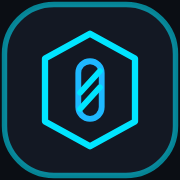
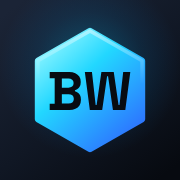
Ícone do app refeito: emblema BW cheio, nítido em qualquer tamanho
O ícone anterior era um desenho de traço fino de 1,2px pensado para 40
pixels. Na tela inicial do celular ele virava um contorno pálido — o
poste de barbeiro parecia um clipe de papel — e o quadrado escuro com
borda ficava dentro do recorte do sistema, dando aquele efeito de moldura
dupla.

O novo emblema é o hexágono da marca CHEIO, com o monograma BW vazado.
As letras são o Space Grotesk Bold (a mesma fonte dos títulos do site),
já convertidas em contorno — não dependem de fonte instalada. O fundo é
sangrado, sem borda própria: quem arredonda é o sistema.

- app/icon.svg — aba do navegador (versão com cantos arredondados)
- app/apple-icon.png — 180px, atalho do iPhone
- public/icon-192.png e icon-512.png — Android / PWA
- public/icon-maskable-512.png — versão com margem de sobra, para o
  Android recortar no formato do aparelho sem cortar o emblema
- design/icone/*.svg — as fontes vetoriais, para gerar os PNGs de novo

components/Logo.tsx passa a usar o mesmo emblema: a marca no topo do
site, na aba do navegador e na tela inicial do celular é uma só.

Claude-Session: https://claude.ai/code/session_01NoNN1Cej5Z9SqMegocJnvG

diff --git a/components/Logo.tsx b/components/Logo.tsx
@@ -1,49 +1,58 @@
 import { shop } from "@/lib/shop";
 
-// Emblema hexagonal com poste de barbeiro — traço elétrico sobre o neutro.
+// Emblema da marca: hexágono cheio com o monograma BW vazado.
+//
+// É o mesmo desenho do ícone do app (app/icon.svg, public/icon-*.png), para
+// a barbearia ter uma marca só na tela inicial do celular, na aba do
+// navegador e no topo do site. As letras são o Space Grotesk Bold — a
+// mesma fonte dos títulos — já convertido em contorno, então não depende
+// de fonte instalada em lugar nenhum.
 export function LogoMark({ className = "h-9 w-9" }: { className?: string }) {
   return (
-    <svg viewBox="0 0 40 40" fill="none" className={className} aria-hidden="true">
+    <svg viewBox="0 0 512 512" fill="none" className={className} aria-hidden="true">
       <defs>
-        <linearGradient id="bw-stroke" x1="20" y1="3" x2="20" y2="37">
-          <stop stopColor="#00E5FF" />
-          <stop offset="1" stopColor="#2979FF" />
+        <linearGradient
+          id="bw-el"
+          x1="120"
+          y1="104"
+          x2="400"
+          y2="416"
+          gradientUnits="userSpaceOnUse"
+        >
+          <stop stopColor="#9DF9FF" />
+          <stop offset=".38" stopColor="#22D7FF" />
+          <stop offset="1" stopColor="#2F62FF" />
+        </linearGradient>
+        {/* Luz de cima: dá volume ao emblema sem pesar no arquivo. */}
+        <linearGradient
+          id="bw-brilho"
+          x1="256"
+          y1="88"
+          x2="256"
+          y2="424"
+          gradientUnits="userSpaceOnUse"
+        >
+          <stop stopColor="#FFFFFF" stopOpacity=".45" />
+          <stop offset=".45" stopColor="#FFFFFF" stopOpacity="0" />
         </linearGradient>
       </defs>
-      <rect x="1" y="1" width="38" height="38" rx="11" fill="#131823" />
-      <rect
-        x="1"
-        y="1"
-        width="38"
-        height="38"
-        rx="11"
-        stroke="url(#bw-stroke)"
-        strokeOpacity="0.55"
-        strokeWidth="1.2"
-      />
-      {/* Hexágono */}
       <path
-        d="M20 7.5 L30 13 V27 L20 32.5 L10 27 V13 Z"
-        stroke="url(#bw-stroke)"
-        strokeWidth="1.4"
+        d="M256 88 404 173 404 339 256 424 108 339 108 173Z"
+        fill="url(#bw-el)"
+        stroke="url(#bw-el)"
+        strokeWidth="18"
         strokeLinejoin="round"
       />
-      {/* Poste de barbeiro */}
-      <rect
-        x="17.4"
-        y="13.6"
-        width="5.2"
-        height="12.8"
-        rx="2.6"
-        stroke="#1EB8FF"
-        strokeWidth="1.3"
-      />
       <path
-        d="M17.8 24.2 22.2 19.4M17.8 20.6 22.2 15.8"
-        stroke="#00E5FF"
-        strokeWidth="1.3"
-        strokeLinecap="round"
+        d="M256 88 404 173 404 339 256 424 108 339 108 173Z"
+        fill="none"
+        stroke="url(#bw-brilho)"
+        strokeWidth="10"
+        strokeLinejoin="round"
       />
+      <g transform="translate(134.27 313.00) scale(0.7714)">
+        <path d="M82 0L9.200 0L9.200-23.200L27.600-23.200L27.600-116.800L9.200-116.800L9.200-140L81.200-140Q94-140 103.500-135.700Q113-131.400 118.300-123.500Q123.600-115.600 123.600-104.600L123.600-102.600Q123.600-93 120-86.900Q116.400-80.800 111.500-77.500Q106.600-74.200 102.200-72.800L102.200-69.200Q106.600-68 111.800-64.700Q117-61.400 120.700-55.200Q124.400-49 124.400-39L124.400-37Q124.400-25.400 119-17.100Q113.600-8.800 104.100-4.400Q94.600 0 82 0M54-58.400L54-24L78.800-24Q87.400-24 92.700-28.200Q98-32.400 98-40.200L98-42.200Q98-50 92.800-54.200Q87.600-58.400 78.800-58.400L54-58.400M54-116L54-82.400L78.400-82.400Q86.600-82.400 91.900-86.600Q97.200-90.800 97.200-98.200L97.200-100.200Q97.200-107.800 92-111.900Q86.800-116 78.400-116L54-116M202.800 0L157.200 0L138.800-140L165-140L178.600-18.400L182.200-18.400L199.800-140L245.400-140L263-18.400L266.600-18.400L280.200-140L306.400-140L288 0L242.400 0L224.400-124.400L220.800-124.400" fill="#0B0E14" />
+      </g>
     </svg>
   );
 }

diff --git a/app/manifest.ts b/app/manifest.ts
@@ -13,9 +13,20 @@ export default function manifest(): MetadataRoute.Manifest {
     lang: "pt-BR",
     icons: [
       { src: "/icon.svg", sizes: "any", type: "image/svg+xml", purpose: "any" },
-      // iOS ignora SVG no atalho da tela inicial; Android quer um PNG grande.
+      // iOS ignora SVG no atalho da tela inicial; Android quer PNG.
       { src: "/apple-icon.png", sizes: "180x180", type: "image/png" },
+      { src: "/icon-192.png", sizes: "192x192", type: "image/png", purpose: "any" },
       { src: "/icon-512.png", sizes: "512x512", type: "image/png", purpose: "any" },
+      // "maskable": o Android recorta o ícone no formato do aparelho
+      // (círculo, squircle, gota). Sem uma versão com margem de sobra, o
+      // emblema chegava encostado na borda e saía cortado — ou o sistema
+      // encolhia o ícone dentro de um quadrado branco.
+      {
+        src: "/icon-maskable-512.png",
+        sizes: "512x512",
+        type: "image/png",
+        purpose: "maskable",
+      },
     ],
   };
 }
